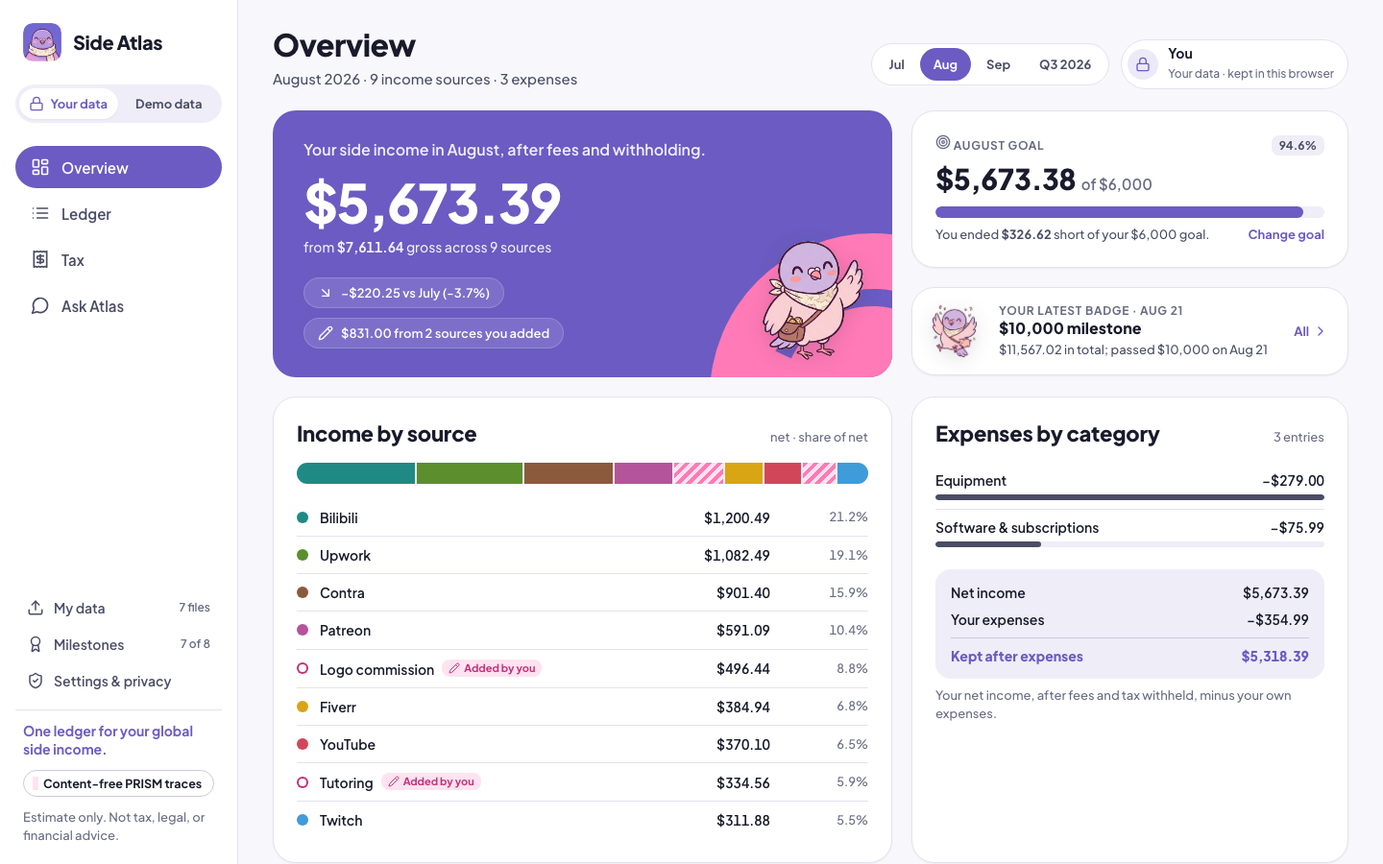
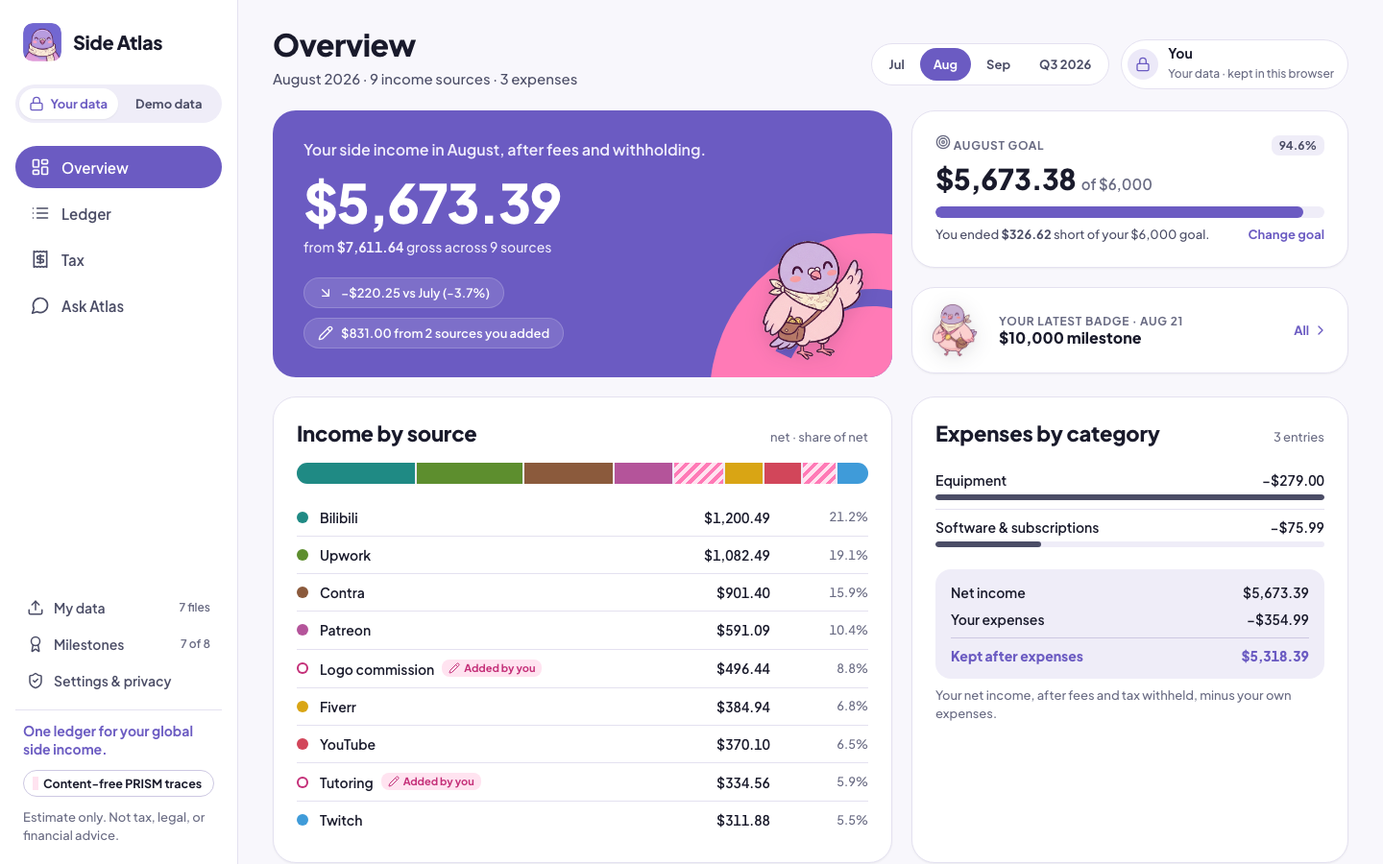
Kit v1.4.1: badge tiles show only the earned date; Atlas v2 art on every badge

Changed region(s): [[0.6562, 0.3422, 0.9062, 0.4356]]

diff --git a/design/Side-Atlas-Design-Kit v1/07-mockups/data-v14.js b/design/Side-Atlas-Design-Kit v1/07-mockups/data-v14.js
@@ -1,3 +1,3 @@
 // Kit v1.4 · generated by gen_data_v14.py from the real endpoints in-process (POST /api/personal/overview and /ledger with
 // the manual entries and the goal from daoshou_testdata/data/manual_entries.json). Fictional data.
-window.SA_V14_RAW = {"art": {"first_1k_month": "../02-logos/mascot/celebrate.png", "best_month": "../02-logos/mascot/celebrate.png", "growth_streak_3": "../02-logos/mascot/think.png", "new_source": "../02-logos/mascot/celebrate.png", "five_sources": "../02-logos/mascot/celebrate.png", "new_currency": "../02-logos/mascot/celebrate.png", "total_10k": "../02-logos/mascot/celebrate.png", "complete_month": "../02-logos/mascot/celebrate.png", "goal": "../02-logos/mascot/celebrate.png"}, "art_v2": 0, "goal_mid": {"month": "2026-09", "income": 2729.8, "progress": 0.455, "remaining": 3270.2, "reached": false, "reached_on": null, "complete": true, "as_of": "2026-09-15"}, "months": {"2026-07": {"month": "2026-07", "prev_month": null, "income": {"net": 5893.64, "gross": 8246.39, "sources": [{"key": "contra", "label": "Contra", "own": false, "net": 1856.31}, {"key": "bilibili", "label": "Bilibili", "own": false, "net": 1500.46}, {"key": "youtube", "label": "YouTube", "own": false, "net": 945.79}, {"key": "patreon", "label": "Patreon", "own": false, "net": 582.89}, {"key": "fiverr", "label": "Fiverr", "own": false, "net": 531.84}, {"key": "twitch", "label": "Twitch", "own": false, "net": 308.69}, {"key": "own:tutoring", "label": "Tutoring", "own": true, "net": 167.66}], "mom": null}, "expenses": {"total": 75.99, "count": 2, "by_category": [{"category": "Software & subscriptions", "amount": 75.99, "count": 2}]}, "kept": 5817.65}, "2026-08": {"month": "2026-08", "prev_month": "2026-07", "income": {"net": 5673.39, "gross": 7611.64, "sources": [{"key": "bilibili", "label": "Bilibili", "own": false, "net": 1200.49}, {"key": "upwork", "label": "Upwork", "own": false, "net": 1082.49}, {"key": "contra", "label": "Contra", "own": false, "net": 901.4}, {"key": "patreon", "label": "Patreon", "own": false, "net": 591.09}, {"key": "own:logo commission", "label": "Logo commission", "own": true, "net": 496.44}, {"key": "fiverr", "label": "Fiverr", "own": false, "net": 384.94}, {"key": "youtube", "label": "YouTube", "own": false, "net": 370.1}, {"key": "own:tutoring", "label": "Tutoring", "own": true, "net": 334.56}, {"key": "twitch", "label": "Twitch", "own": false, "net": 311.88}], "mom": {"change": -220.25, "pct": -0.037371}}, "expenses": {"total": 354.99, "count": 3, "by_category": [{"category": "Equipment", "amount": 279.0, "count": 1}, {"category": "Software & subscriptions", "amount": 75.99, "count": 2}]}, "kept": 5318.39}, "2026-09": {"month": "2026-09", "prev_month": "2026-08", "income": {"net": 6118.33, "gross": 8247.61, "sources": [{"key": "bilibili", "label": "Bilibili", "own": false, "net": 1253.15}, {"key": "contra", "label": "Contra", "own": false, "net": 940.86}, {"key": "upwork", "label": "Upwork", "own": false, "net": 907.91}, {"key": "youtube", "label": "YouTube", "own": false, "net": 614.02}, {"key": "patreon", "label": "Patreon", "own": false, "net": 576.22}, {"key": "twitch", "label": "Twitch", "own": false, "net": 532.95}, {"key": "own:logo commission", "label": "Logo commission", "own": true, "net": 525.6}, {"key": "fiverr", "label": "Fiverr", "own": false, "net": 516.68}, {"key": "own:tutoring", "label": "Tutoring", "own": true, "net": 250.94}], "mom": {"change": 444.94, "pct": 0.078426}}, "expenses": {"total": 204.99, "count": 3, "by_category": [{"category": "Education", "amount": 129.0, "count": 1}, {"category": "Software & subscriptions", "amount": 75.99, "count": 2}]}, "kept": 5913.34}}, "show": "2026-09", "goal": {"amount": 6000.0, "currency": "USD", "basis": "income: platform net plus manual income, before expenses", "months": [{"month": "2026-07", "income": 5893.64, "progress": 0.9823, "remaining": 106.36, "reached": false, "reached_on": null, "complete": true}, {"month": "2026-08", "income": 5673.38, "progress": 0.9456, "remaining": 326.62, "reached": false, "reached_on": null, "complete": true}, {"month": "2026-09", "income": 6118.33, "progress": 1.0197, "remaining": 0.0, "reached": true, "reached_on": "2026-09-28", "complete": true}], "months_reached": 1}, "badges": {"2026-07": [{"id": "first_1k_month", "title_key": "badge.first_1k_month", "earned": true, "earned_on": "2026-07-04", "numbers": {"month": "2026-07", "income_usd": 5893.64, "threshold_usd": 1000.0, "income": 5893.64, "currency": "USD"}, "progress": null}, {"id": "best_month", "title_key": "badge.best_month", "earned": false, "earned_on": null, "numbers": {"best_month": "2026-07", "best": 5893.64, "currency": "USD"}, "progress": null}, {"id": "growth_streak_3", "title_key": "badge.growth_streak_3", "earned": false, "earned_on": null, "numbers": {"currency": "USD"}, "progress": {"current": 0, "target": 3, "unit": "months"}}, {"id": "new_source", "title_key": "badge.new_source", "earned": false, "earned_on": null, "numbers": {"sources": 7}, "progress": null}, {"id": "five_sources", "title_key": "badge.five_sources", "earned": true, "earned_on": "2026-07-04", "numbers": {"fifth": "Contra", "sources": ["B站", "Patreon", "Twitch", "YouTube", "Contra"], "count": 7}, "progress": null}, {"id": "new_currency", "title_key": "badge.new_currency", "earned": false, "earned_on": null, "numbers": {"currencies": ["CNY", "USD"]}, "progress": null}, {"id": "total_10k", "title_key": "badge.total_10k", "earned": false, "earned_on": null, "numbers": {"threshold_usd": 10000.0, "total_usd": 5893.64}, "progress": {"current": 5893.64, "target": 10000.0, "unit": "USD"}}, {"id": "complete_month", "title_key": "badge.complete_month", "earned": true, "earned_on": "2026-07-31", "numbers": {"month": "2026-07", "platforms": 6}, "progress": null}], "2026-08": [{"id": "first_1k_month", "title_key": "badge.first_1k_month", "earned": true, "earned_on": "2026-07-04", "numbers": {"month": "2026-07", "income_usd": 5893.64, "threshold_usd": 1000.0, "income": 5893.64, "currency": "USD"}, "progress": null}, {"id": "best_month", "title_key": "badge.best_month", "earned": false, "earned_on": null, "numbers": {"best_month": "2026-07", "best": 5893.64, "currency": "USD"}, "progress": null}, {"id": "growth_streak_3", "title_key": "badge.growth_streak_3", "earned": false, "earned_on": null, "numbers": {"currency": "USD"}, "progress": {"current": 0, "target": 3, "unit": "months"}}, {"id": "new_source", "title_key": "badge.new_source", "earned": true, "earned_on": "2026-08-12", "numbers": {"source": "Logo commission", "manual": true, "added": [{"source": "Logo commission", "manual": true, "first_date": "2026-08-12"}, {"source": "Upwork", "manual": false, "first_date": "2026-08-21"}]}, "progress": null}, {"id": "five_sources", "title_key": "badge.five_sources", "earned": true, "earned_on": "2026-07-04", "numbers": {"fifth": "Contra", "sources": ["B站", "Patreon", "Twitch", "YouTube", "Contra"], "count": 9}, "progress": null}, {"id": "new_currency", "title_key": "badge.new_currency", "earned": true, "earned_on": "2026-08-12", "numbers": {"currency": "EUR", "first_date": "2026-08-12", "earlier_currencies": ["CNY", "USD"]}, "progress": null}, {"id": "total_10k", "title_key": "badge.total_10k", "earned": true, "earned_on": "2026-08-21", "numbers": {"threshold_usd": 10000.0, "total_usd": 11567.02}, "progress": null}, {"id": "complete_month", "title_key": "badge.complete_month", "earned": true, "earned_on": "2026-07-31", "numbers": {"month": "2026-07", "platforms": 6}, "progress": null}], "2026-09": [{"id": "first_1k_month", "title_key": "badge.first_1k_month", "earned": true, "earned_on": "2026-07-04", "numbers": {"month": "2026-07", "income_usd": 5893.64, "threshold_usd": 1000.0, "income": 5893.64, "currency": "USD"}, "progress": null}, {"id": "best_month", "title_key": "badge.best_month", "earned": true, "earned_on": "2026-09-28", "numbers": {"month": "2026-09", "income": 6118.33, "previous_best_month": "2026-07", "previous_best": 5893.64, "currency": "USD"}, "progress": null}, {"id": "growth_streak_3", "title_key": "badge.growth_streak_3", "earned": false, "earned_on": null, "numbers": {"currency": "USD"}, "progress": {"current": 1, "target": 3, "unit": "months"}}, {"id": "new_source", "title_key": "badge.new_source", "earned": true, "earned_on": "2026-08-12", "numbers": {"source": "Logo commission", "manual": true, "added": [{"source": "Logo commission", "manual": true, "first_date": "2026-08-12"}, {"source": "Upwork", "manual": false, "first_date": "2026-08-21"}]}, "progress": null}, {"id": "five_sources", "title_key": "badge.five_sources", "earned": true, "earned_on": "2026-07-04", "numbers": {"fifth": "Contra", "sources": ["B站", "Patreon", "Twitch", "YouTube", "Contra"], "count": 9}, "progress": null}, {"id": "new_currency", "title_key": "badge.new_currency", "earned": true, "earned_on": "2026-08-12", "numbers": {"currency": "EUR", "first_date": "2026-08-12", "earlier_currencies": ["CNY", "USD"]}, "progress": null}, {"id": "total_10k", "title_key": "badge.total_10k", "earned": true, "earned_on": "2026-08-21", "numbers": {"threshold_usd": 10000.0, "total_usd": 17685.35}, "progress": null}, {"id": "complete_month", "title_key": "badge.complete_month", "earned": true, "earned_on": "2026-07-31", "numbers": {"month": "2026-07", "platforms": 6}, "progress": null}]}, "ledger": {"rows": [{"date": "2026-09-01", "kind": "statement", "key": "fiverr", "label": "Fiverr", "type": "Order", "ref": "FO853419", "original": {"currency": "USD", "amount": 209.8}, "fx_line": "", "gross": 209.8, "fees": 41.96, "withheld": 0.0, "net": 167.84}, {"date": "2026-09-01", "kind": "statement", "key": "fiverr", "label": "Fiverr", "type": "Tip", "ref": "FO853419", "original": {"currency": "USD", "amount": 14.81}, "fx_line": "", "gross": 14.81, "fees": 2.96, "withheld": 0.0, "net": 11.85}, {"date": "2026-09-01", "kind": "statement", "key": "patreon", "label": "Patreon", "type": "Pledges", "ref": null, "original": {"currency": "USD", "amount": 647.43}, "fx_line": "", "gross": 647.43, "fees": 71.21, "withheld": 0.0, "net": 576.22}, {"date": "2026-09-01", "kind": "statement", "key": "twitch", "label": "Twitch", "type": "Bits", "ref": null, "original": {"currency": "USD", "amount": 65.43}, "fx_line": "", "gross": 65.43, "fees": 0.0, "withheld": 0.0, "net": 65.43}, {"date": "2026-09-02", "kind": "expense", "key": "own", "label": "Software & subscriptions", "type": "Expense", "ref": "Adobe Creative Cloud", "original": {"currency": "USD", "amount": 59.99}, "fx_line": "", "amount_usd": 59.99}, {"date": "2026-09-03", "kind": "statement", "key": "bilibili", "label": "Bilibili", "type": "充电", "ref": null, "original": {"currency": "CNY", "amount": 1192.0}, "fx_line": "÷ 7.1800 · 2026-09-03", "gross": 166.02, "fees": 83.01, "withheld": 0.0, "net": 83.01}, {"date": "2026-09-05", "kind": "statement", "key": "twitch", "label": "Twitch", "type": "Ad Revenue", "ref": null, "original": {"currency": "USD", "amount": 56.65}, "fx_line": "", "gross": 56.65, "fees": 25.49, "withheld": 0.0, "net": 31.16}, {"date": "2026-09-05", "kind": "expense", "key": "own", "label": "Software & subscriptions", "type": "Expense", "ref": "Figma Professional", "original": {"currency": "USD", "amount": 16.0}, "fx_line": "", "amount_usd": 16.0}, {"date": "2026-09-08", "kind": "statement", "key": "upwork", "label": "Upwork", "type": "Hourly", "ref": "UW-2102", "original": {"currency": "USD", "amount": 398.9}, "fx_line": "", "gross": 398.9, "fees": 59.84, "withheld": 0.0, "net": 339.06}, {"date": "2026-09-09", "kind": "statement", "key": "bilibili", "label": "Bilibili", "type": "提督", "ref": null, "original": {"currency": "CNY", "amount": 1998.0}, "fx_line": "÷ 7.1713 · 2026-09-09", "gross": 278.61, "fees": 139.31, "withheld": 0.0, "net": 139.31}, {"date": "2026-09-10", "kind": "expense", "key": "own", "label": "Education", "type": "Expense", "ref": "Online course: motion design", "original": {"currency": "USD", "amount": 129.0}, "fx_line": "", "amount_usd": 129.0}, {"date": "2026-09-11", "kind": "statement", "key": "bilibili", "label": "Bilibili", "type": "舰长", "ref": null, "original": {"currency": "CNY", "amount": 198.0}, "fx_line": "÷ 7.1681 · 2026-09-11", "gross": 27.62, "fees": 13.81, "withheld": 0.0, "net": 13.81}, {"date": "2026-09-13", "kind": "statement", "key": "bilibili", "label": "Bilibili", "type": "SC", "ref": null, "original": {"currency": "CNY", "amount": 1284.0}, "fx_line": "÷ 7.1590 · 2026-09-13", "gross": 179.35, "fees": 89.68, "withheld": 0.0, "net": 89.68}, {"date": "2026-09-13", "kind": "statement", "key": "bilibili", "label": "Bilibili", "type": "SC", "ref": null, "original": {"currency": "CNY", "amount": 988.0}, "fx_line": "÷ 7.1590 · 2026-09-13", "gross": 138.01, "fees": 69.0, "withheld": 0.0, "net": 69.0}, {"date": "2026-09-14", "kind": "statement", "key": "upwork", "label": "Upwork", "type": "Fixed Price", "ref": "UW-2101", "original": {"currency": "USD", "amount": 634.28}, "fx_line": "", "gross": 634.28, "fees": 63.43, "withheld": 0.0, "net": 570.85}, {"date": "2026-09-14", "kind": "income", "key": "own", "label": "Tutoring", "type": "Income", "ref": null, "original": {"currency": "CNY", "amount": 900.0}, "fx_line": "÷ 7.1651 · 2026-09-14", "gross": 125.61, "fees": 0, "withheld": 0, "net": 125.61}, {"date": "2026-09-15", "kind": "statement", "key": "bilibili", "label": "Bilibili", "type": "SC", "ref": null, "original": {"currency": "CNY", "amount": 1752.0}, "fx_line": "÷ 7.1740 · 2026-09-15", "gross": 244.22, "fees": 122.11, "withheld": 0.0, "net": 122.11}, {"date": "2026-09-15", "kind": "statement", "key": "bilibili", "label": "Bilibili", "type": "SC", "ref": null, "original": {"currency": "CNY", "amount": 1228.0}, "fx_line": "÷ 7.1740 · 2026-09-15", "gross": 171.17, "fees": 85.59, "withheld": 0.0, "net": 85.59}, {"date": "2026-09-15", "kind": "statement", "key": "twitch", "label": "Twitch", "type": "Subscriptions", "ref": null, "original": {"currency": "USD", "amount": 478.55}, "fx_line": "", "gross": 478.55, "fees": 239.28, "withheld": 0.0, "net": 239.27}, {"date": "2026-09-16", "kind": "statement", "key": "bilibili", "label": "Bilibili", "type": "礼物", "ref": null, "original": {"currency": "CNY", "amount": 2496.0}, "fx_line": "÷ 7.1691 · 2026-09-16", "gross": 348.16, "fees": 174.08, "withheld": 0.0, "net": 174.08}, {"date": "2026-09-16", "kind": "statement", "key": "upwork", "label": "Upwork", "type": "Withdrawal Fee", "ref": null, "original": {"currency": "USD", "amount": 0.0}, "fx_line": "", "gross": 0.0, "fees": 2.0, "withheld": 0.0, "net": -2.0}, {"date": "2026-09-17", "kind": "statement", "key": "bilibili", "label": "Bilibili", "type": "礼物", "ref": null, "original": {"currency": "CNY", "amount": 1292.0}, "fx_line": "÷ 7.1691 · 2026-09-17", "gross": 180.22, "fees": 90.11, "withheld": 0.0, "net": 90.11}, {"date": "2026-09-18", "kind": "statement", "key": "fiverr", "label": "Fiverr", "type": "Order", "ref": "FO326993", "original": {"currency": "USD", "amount": 217.68}, "fx_line": "", "gross": 217.68, "fees": 43.54, "withheld": 0.0, "net": 174.14}, {"date": "2026-09-19", "kind": "statement", "key": "bilibili", "label": "Bilibili", "type": "提督", "ref": null, "original": {"currency": "CNY", "amount": 1998.0}, "fx_line": "÷ 7.1877 · 2026-09-19", "gross": 277.97, "fees": 138.99, "withheld": 0.0, "net": 138.99}, {"date": "2026-09-19", "kind": "statement", "key": "youtube", "label": "YouTube", "type": "Super Chat", "ref": null, "original": {"currency": "USD", "amount": 234.78}, "fx_line": "", "gross": 234.78, "fees": 70.43, "withheld": 0.0, "net": 164.35}, {"date": "2026-09-21", "kind": "statement", "key": "fiverr", "label": "Fiverr", "type": "Order", "ref": "FO312690", "original": {"currency": "USD", "amount": 85.68}, "fx_line": "", "gross": 85.68, "fees": 17.14, "withheld": 0.0, "net": 68.54}, {"date": "2026-09-21", "kind": "statement", "key": "fiverr", "label": "Fiverr", "type": "Tip", "ref": "FO312690", "original": {"currency": "USD", "amount": 39.61}, "fx_line": "", "gross": 39.61, "fees": 7.92, "withheld": 0.0, "net": 31.69}, {"date": "2026-09-21", "kind": "income", "key": "own", "label": "Logo commission", "type": "Income", "ref": null, "original": {"currency": "EUR", "amount": 480.0}, "fx_line": "× 1.0950 · 2026-09-21", "gross": 525.6, "fees": 0, "withheld": 0, "net": 525.6}, {"date": "2026-09-22", "kind": "statement", "key": "twitch", "label": "Twitch", "type": "Bits", "ref": null, "original": {"currency": "USD", "amount": 102.36}, "fx_line": "", "gross": 102.36, "fees": 0.0, "withheld": 0.0, "net": 102.36}, {"date": "2026-09-24", "kind": "statement", "key": "fiverr", "label": "Fiverr", "type": "Order", "ref": "FO778597", "original": {"currency": "USD", "amount": 82.03}, "fx_line": "", "gross": 82.03, "fees": 16.41, "withheld": 0.0, "net": 65.62}, {"date": "2026-09-24", "kind": "statement", "key": "twitch", "label": "Twitch", "type": "Bits", "ref": null, "original": {"currency": "USD", "amount": 94.73}, "fx_line": "", "gross": 94.73, "fees": 0.0, "withheld": 0.0, "net": 94.73}, {"date": "2026-09-26", "kind": "statement", "key": "bilibili", "label": "Bilibili", "type": "充电", "ref": null, "original": {"currency": "CNY", "amount": 2220.0}, "fx_line": "÷ 7.1910 · 2026-09-26", "gross": 308.72, "fees": 154.36, "withheld": 0.0, "net": 154.36}, {"date": "2026-09-26", "kind": "statement", "key": "youtube", "label": "YouTube", "type": "Super Chat", "ref": null, "original": {"currency": "USD", "amount": 76.57}, "fx_line": "", "gross": 76.57, "fees": 22.97, "withheld": 0.0, "net": 53.6}, {"date": "2026-09-27", "kind": "statement", "key": "fiverr", "label": "Fiverr", "type": "Withdrawal Fee", "ref": null, "original": {"currency": "USD", "amount": 0.0}, "fx_line": "", "gross": 0.0, "fees": 3.0, "withheld": 0.0, "net": -3.0}, {"date": "2026-09-28", "kind": "statement", "key": "bilibili", "label": "Bilibili", "type": "SC", "ref": null, "original": {"currency": "CNY", "amount": 876.0}, "fx_line": "÷ 7.1810 · 2026-09-28", "gross": 121.99, "fees": 60.99, "withheld": 0.0, "net": 60.99}, {"date": "2026-09-28", "kind": "statement", "key": "contra", "label": "Contra", "type": "Payment", "ref": "App onboarding screens", "original": {"currency": "USD", "amount": 940.86}, "fx_line": "", "gross": 940.86, "fees": 0.0, "withheld": 0.0, "net": 940.86}, {"date": "2026-09-28", "kind": "statement", "key": "youtube", "label": "YouTube", "type": "Super Sticker", "ref": null, "original": {"currency": "USD", "amount": 43.35}, "fx_line": "", "gross": 43.35, "fees": 13.01, "withheld": 0.0, "net": 30.34}, {"date": "2026-09-28", "kind": "statement", "key": "youtube", "label": "YouTube", "type": "Channel Memberships", "ref": null, "original": {"currency": "USD", "amount": 522.47}, "fx_line": "", "gross": 522.47, "fees": 156.74, "withheld": 0.0, "net": 365.73}, {"date": "2026-09-28", "kind": "income", "key": "own", "label": "Tutoring", "type": "Income", "ref": null, "original": {"currency": "CNY", "amount": 900.0}, "fx_line": "÷ 7.1810 · 2026-09-28", "gross": 125.33, "fees": 0, "withheld": 0, "net": 125.33}, {"date": "2026-09-29", "kind": "statement", "key": "bilibili", "label": "Bilibili", "type": "礼物", "ref": null, "original": {"currency": "CNY", "amount": 596.0}, "fx_line": "÷ 7.1778 · 2026-09-29", "gross": 83.03, "fees": 41.52, "withheld": 0.0, "net": 41.52}, {"date": "2026-09-30", "kind": "statement", "key": "bilibili", "label": "Bilibili", "type": "提现代扣个税", "ref": null, "original": {"currency": "CNY", "amount": 0.0}, "fx_line": "÷ 7.1753 · 2026-09-30", "gross": 0.0, "fees": 0.0, "withheld": 9.4, "net": -9.4}], "counts": {"all": 41, "income": 38, "expenses": 3, "own": 6}, "totals": {"gross": 8247.61, "fees": 2119.88, "withheld": 9.4, "expenses": 204.99, "net": 6118.33, "kept": 5913.34, "net_after_expenses": 5913.34}}, "own_sources": ["Logo commission", "Tutoring"], "entry_examples": {"expense": {"date": "2026-09-10", "amount": 129.0, "currency": "USD", "category": "Education", "source": "Online course: motion design"}, "income": {"date": "2026-09-28", "amount": 900, "currency": "CNY", "source": "Tutoring"}}, "goal_presets": [4000, 5000, 6000, 7000]};
+window.SA_V14_RAW = {"art": {"first_1k_month": "../02-logos/mascot/v2/coin.png", "best_month": "../02-logos/mascot/v2/trophy.png", "growth_streak_3": "../02-logos/mascot/v2/coin-stack.png", "new_source": "../02-logos/mascot/v2/envelope.png", "five_sources": "../02-logos/mascot/v2/star-badge.png", "new_currency": "../02-logos/mascot/v2/globe.png", "total_10k": "../02-logos/mascot/v2/medal.png", "complete_month": "../02-logos/mascot/v2/ledger.png", "goal": "../02-logos/mascot/v2/flag.png"}, "art_v2": 9, "goal_mid": {"month": "2026-09", "income": 2729.8, "progress": 0.455, "remaining": 3270.2, "reached": false, "reached_on": null, "complete": true, "as_of": "2026-09-15"}, "months": {"2026-07": {"month": "2026-07", "prev_month": null, "income": {"net": 5893.64, "gross": 8246.39, "sources": [{"key": "contra", "label": "Contra", "own": false, "net": 1856.31}, {"key": "bilibili", "label": "Bilibili", "own": false, "net": 1500.46}, {"key": "youtube", "label": "YouTube", "own": false, "net": 945.79}, {"key": "patreon", "label": "Patreon", "own": false, "net": 582.89}, {"key": "fiverr", "label": "Fiverr", "own": false, "net": 531.84}, {"key": "twitch", "label": "Twitch", "own": false, "net": 308.69}, {"key": "own:tutoring", "label": "Tutoring", "own": true, "net": 167.66}], "mom": null}, "expenses": {"total": 75.99, "count": 2, "by_category": [{"category": "Software & subscriptions", "amount": 75.99, "count": 2}]}, "kept": 5817.65}, "2026-08": {"month": "2026-08", "prev_month": "2026-07", "income": {"net": 5673.39, "gross": 7611.64, "sources": [{"key": "bilibili", "label": "Bilibili", "own": false, "net": 1200.49}, {"key": "upwork", "label": "Upwork", "own": false, "net": 1082.49}, {"key": "contra", "label": "Contra", "own": false, "net": 901.4}, {"key": "patreon", "label": "Patreon", "own": false, "net": 591.09}, {"key": "own:logo commission", "label": "Logo commission", "own": true, "net": 496.44}, {"key": "fiverr", "label": "Fiverr", "own": false, "net": 384.94}, {"key": "youtube", "label": "YouTube", "own": false, "net": 370.1}, {"key": "own:tutoring", "label": "Tutoring", "own": true, "net": 334.56}, {"key": "twitch", "label": "Twitch", "own": false, "net": 311.88}], "mom": {"change": -220.25, "pct": -0.037371}}, "expenses": {"total": 354.99, "count": 3, "by_category": [{"category": "Equipment", "amount": 279.0, "count": 1}, {"category": "Software & subscriptions", "amount": 75.99, "count": 2}]}, "kept": 5318.39}, "2026-09": {"month": "2026-09", "prev_month": "2026-08", "income": {"net": 6118.33, "gross": 8247.61, "sources": [{"key": "bilibili", "label": "Bilibili", "own": false, "net": 1253.15}, {"key": "contra", "label": "Contra", "own": false, "net": 940.86}, {"key": "upwork", "label": "Upwork", "own": false, "net": 907.91}, {"key": "youtube", "label": "YouTube", "own": false, "net": 614.02}, {"key": "patreon", "label": "Patreon", "own": false, "net": 576.22}, {"key": "twitch", "label": "Twitch", "own": false, "net": 532.95}, {"key": "own:logo commission", "label": "Logo commission", "own": true, "net": 525.6}, {"key": "fiverr", "label": "Fiverr", "own": false, "net": 516.68}, {"key": "own:tutoring", "label": "Tutoring", "own": true, "net": 250.94}], "mom": {"change": 444.94, "pct": 0.078426}}, "expenses": {"total": 204.99, "count": 3, "by_category": [{"category": "Education", "amount": 129.0, "count": 1}, {"category": "Software & subscriptions", "amount": 75.99, "count": 2}]}, "kept": 5913.34}}, "show": "2026-09", "goal": {"amount": 6000.0, "currency": "USD", "basis": "income: platform net plus manual income, before expenses", "months": [{"month": "2026-07", "income": 5893.64, "progress": 0.9823, "remaining": 106.36, "reached": false, "reached_on": null, "complete": true}, {"month": "2026-08", "income": 5673.38, "progress": 0.9456, "remaining": 326.62, "reached": false, "reached_on": null, "complete": true}, {"month": "2026-09", "income": 6118.33, "progress": 1.0197, "remaining": 0.0, "reached": true, "reached_on": "2026-09-28", "complete": true}], "months_reached": 1}, "badges": {"2026-07": [{"id": "first_1k_month", "title_key": "badge.first_1k_month", "earned": true, "earned_on": "2026-07-04", "numbers": {"month": "2026-07", "income_usd": 5893.64, "threshold_usd": 1000.0, "income": 5893.64, "currency": "USD"}, "progress": null}, {"id": "best_month", "title_key": "badge.best_month", "earned": false, "earned_on": null, "numbers": {"best_month": "2026-07", "best": 5893.64, "currency": "USD"}, "progress": null}, {"id": "growth_streak_3", "title_key": "badge.growth_streak_3", "earned": false, "earned_on": null, "numbers": {"currency": "USD"}, "progress": {"current": 0, "target": 3, "unit": "months"}}, {"id": "new_source", "title_key": "badge.new_source", "earned": false, "earned_on": null, "numbers": {"sources": 7}, "progress": null}, {"id": "five_sources", "title_key": "badge.five_sources", "earned": true, "earned_on": "2026-07-04", "numbers": {"fifth": "Contra", "sources": ["B站", "Patreon", "Twitch", "YouTube", "Contra"], "count": 7}, "progress": null}, {"id": "new_currency", "title_key": "badge.new_currency", "earned": false, "earned_on": null, "numbers": {"currencies": ["CNY", "USD"]}, "progress": null}, {"id": "total_10k", "title_key": "badge.total_10k", "earned": false, "earned_on": null, "numbers": {"threshold_usd": 10000.0, "total_usd": 5893.64}, "progress": {"current": 5893.64, "target": 10000.0, "unit": "USD"}}, {"id": "complete_month", "title_key": "badge.complete_month", "earned": true, "earned_on": "2026-07-31", "numbers": {"month": "2026-07", "platforms": 6}, "progress": null}], "2026-08": [{"id": "first_1k_month", "title_key": "badge.first_1k_month", "earned": true, "earned_on": "2026-07-04", "numbers": {"month": "2026-07", "income_usd": 5893.64, "threshold_usd": 1000.0, "income": 5893.64, "currency": "USD"}, "progress": null}, {"id": "best_month", "title_key": "badge.best_month", "earned": false, "earned_on": null, "numbers": {"best_month": "2026-07", "best": 5893.64, "currency": "USD"}, "progress": null}, {"id": "growth_streak_3", "title_key": "badge.growth_streak_3", "earned": false, "earned_on": null, "numbers": {"currency": "USD"}, "progress": {"current": 0, "target": 3, "unit": "months"}}, {"id": "new_source", "title_key": "badge.new_source", "earned": true, "earned_on": "2026-08-12", "numbers": {"source": "Logo commission", "manual": true, "added": [{"source": "Logo commission", "manual": true, "first_date": "2026-08-12"}, {"source": "Upwork", "manual": false, "first_date": "2026-08-21"}]}, "progress": null}, {"id": "five_sources", "title_key": "badge.five_sources", "earned": true, "earned_on": "2026-07-04", "numbers": {"fifth": "Contra", "sources": ["B站", "Patreon", "Twitch", "YouTube", "Contra"], "count": 9}, "progress": null}, {"id": "new_currency", "title_key": "badge.new_currency", "earned": true, "earned_on": "2026-08-12", "numbers": {"currency": "EUR", "first_date": "2026-08-12", "earlier_currencies": ["CNY", "USD"]}, "progress": null}, {"id": "total_10k", "title_key": "badge.total_10k", "earned": true, "earned_on": "2026-08-21", "numbers": {"threshold_usd": 10000.0, "total_usd": 11567.02}, "progress": null}, {"id": "complete_month", "title_key": "badge.complete_month", "earned": true, "earned_on": "2026-07-31", "numbers": {"month": "2026-07", "platforms": 6}, "progress": null}], "2026-09": [{"id": "first_1k_month", "title_key": "badge.first_1k_month", "earned": true, "earned_on": "2026-07-04", "numbers": {"month": "2026-07", "income_usd": 5893.64, "threshold_usd": 1000.0, "income": 5893.64, "currency": "USD"}, "progress": null}, {"id": "best_month", "title_key": "badge.best_month", "earned": true, "earned_on": "2026-09-28", "numbers": {"month": "2026-09", "income": 6118.33, "previous_best_month": "2026-07", "previous_best": 5893.64, "currency": "USD"}, "progress": null}, {"id": "growth_streak_3", "title_key": "badge.growth_streak_3", "earned": false, "earned_on": null, "numbers": {"currency": "USD"}, "progress": {"current": 1, "target": 3, "unit": "months"}}, {"id": "new_source", "title_key": "badge.new_source", "earned": true, "earned_on": "2026-08-12", "numbers": {"source": "Logo commission", "manual": true, "added": [{"source": "Logo commission", "manual": true, "first_date": "2026-08-12"}, {"source": "Upwork", "manual": false, "first_date": "2026-08-21"}]}, "progress": null}, {"id": "five_sources", "title_key": "badge.five_sources", "earned": true, "earned_on": "2026-07-04", "numbers": {"fifth": "Contra", "sources": ["B站", "Patreon", "Twitch", "YouTube", "Contra"], "count": 9}, "progress": null}, {"id": "new_currency", "title_key": "badge.new_currency", "earned": true, "earned_on": "2026-08-12", "numbers": {"currency": "EUR", "first_date": "2026-08-12", "earlier_currencies": ["CNY", "USD"]}, "progress": null}, {"id": "total_10k", "title_key": "badge.total_10k", "earned": true, "earned_on": "2026-08-21", "numbers": {"threshold_usd": 10000.0, "total_usd": 17685.35}, "progress": null}, {"id": "complete_month", "title_key": "badge.complete_month", "earned": true, "earned_on": "2026-07-31", "numbers": {"month": "2026-07", "platforms": 6}, "progress": null}]}, "ledger": {"rows": [{"date": "2026-09-01", "kind": "statement", "key": "fiverr", "label": "Fiverr", "type": "Order", "ref": "FO853419", "original": {"currency": "USD", "amount": 209.8}, "fx_line": "", "gross": 209.8, "fees": 41.96, "withheld": 0.0, "net": 167.84}, {"date": "2026-09-01", "kind": "statement", "key": "fiverr", "label": "Fiverr", "type": "Tip", "ref": "FO853419", "original": {"currency": "USD", "amount": 14.81}, "fx_line": "", "gross": 14.81, "fees": 2.96, "withheld": 0.0, "net": 11.85}, {"date": "2026-09-01", "kind": "statement", "key": "patreon", "label": "Patreon", "type": "Pledges", "ref": null, "original": {"currency": "USD", "amount": 647.43}, "fx_line": "", "gross": 647.43, "fees": 71.21, "withheld": 0.0, "net": 576.22}, {"date": "2026-09-01", "kind": "statement", "key": "twitch", "label": "Twitch", "type": "Bits", "ref": null, "original": {"currency": "USD", "amount": 65.43}, "fx_line": "", "gross": 65.43, "fees": 0.0, "withheld": 0.0, "net": 65.43}, {"date": "2026-09-02", "kind": "expense", "key": "own", "label": "Software & subscriptions", "type": "Expense", "ref": "Adobe Creative Cloud", "original": {"currency": "USD", "amount": 59.99}, "fx_line": "", "amount_usd": 59.99}, {"date": "2026-09-03", "kind": "statement", "key": "bilibili", "label": "Bilibili", "type": "充电", "ref": null, "original": {"currency": "CNY", "amount": 1192.0}, "fx_line": "÷ 7.1800 · 2026-09-03", "gross": 166.02, "fees": 83.01, "withheld": 0.0, "net": 83.01}, {"date": "2026-09-05", "kind": "statement", "key": "twitch", "label": "Twitch", "type": "Ad Revenue", "ref": null, "original": {"currency": "USD", "amount": 56.65}, "fx_line": "", "gross": 56.65, "fees": 25.49, "withheld": 0.0, "net": 31.16}, {"date": "2026-09-05", "kind": "expense", "key": "own", "label": "Software & subscriptions", "type": "Expense", "ref": "Figma Professional", "original": {"currency": "USD", "amount": 16.0}, "fx_line": "", "amount_usd": 16.0}, {"date": "2026-09-08", "kind": "statement", "key": "upwork", "label": "Upwork", "type": "Hourly", "ref": "UW-2102", "original": {"currency": "USD", "amount": 398.9}, "fx_line": "", "gross": 398.9, "fees": 59.84, "withheld": 0.0, "net": 339.06}, {"date": "2026-09-09", "kind": "statement", "key": "bilibili", "label": "Bilibili", "type": "提督", "ref": null, "original": {"currency": "CNY", "amount": 1998.0}, "fx_line": "÷ 7.1713 · 2026-09-09", "gross": 278.61, "fees": 139.31, "withheld": 0.0, "net": 139.31}, {"date": "2026-09-10", "kind": "expense", "key": "own", "label": "Education", "type": "Expense", "ref": "Online course: motion design", "original": {"currency": "USD", "amount": 129.0}, "fx_line": "", "amount_usd": 129.0}, {"date": "2026-09-11", "kind": "statement", "key": "bilibili", "label": "Bilibili", "type": "舰长", "ref": null, "original": {"currency": "CNY", "amount": 198.0}, "fx_line": "÷ 7.1681 · 2026-09-11", "gross": 27.62, "fees": 13.81, "withheld": 0.0, "net": 13.81}, {"date": "2026-09-13", "kind": "statement", "key": "bilibili", "label": "Bilibili", "type": "SC", "ref": null, "original": {"currency": "CNY", "amount": 1284.0}, "fx_line": "÷ 7.1590 · 2026-09-13", "gross": 179.35, "fees": 89.68, "withheld": 0.0, "net": 89.68}, {"date": "2026-09-13", "kind": "statement", "key": "bilibili", "label": "Bilibili", "type": "SC", "ref": null, "original": {"currency": "CNY", "amount": 988.0}, "fx_line": "÷ 7.1590 · 2026-09-13", "gross": 138.01, "fees": 69.0, "withheld": 0.0, "net": 69.0}, {"date": "2026-09-14", "kind": "statement", "key": "upwork", "label": "Upwork", "type": "Fixed Price", "ref": "UW-2101", "original": {"currency": "USD", "amount": 634.28}, "fx_line": "", "gross": 634.28, "fees": 63.43, "withheld": 0.0, "net": 570.85}, {"date": "2026-09-14", "kind": "income", "key": "own", "label": "Tutoring", "type": "Income", "ref": null, "original": {"currency": "CNY", "amount": 900.0}, "fx_line": "÷ 7.1651 · 2026-09-14", "gross": 125.61, "fees": 0, "withheld": 0, "net": 125.61}, {"date": "2026-09-15", "kind": "statement", "key": "bilibili", "label": "Bilibili", "type": "SC", "ref": null, "original": {"currency": "CNY", "amount": 1752.0}, "fx_line": "÷ 7.1740 · 2026-09-15", "gross": 244.22, "fees": 122.11, "withheld": 0.0, "net": 122.11}, {"date": "2026-09-15", "kind": "statement", "key": "bilibili", "label": "Bilibili", "type": "SC", "ref": null, "original": {"currency": "CNY", "amount": 1228.0}, "fx_line": "÷ 7.1740 · 2026-09-15", "gross": 171.17, "fees": 85.59, "withheld": 0.0, "net": 85.59}, {"date": "2026-09-15", "kind": "statement", "key": "twitch", "label": "Twitch", "type": "Subscriptions", "ref": null, "original": {"currency": "USD", "amount": 478.55}, "fx_line": "", "gross": 478.55, "fees": 239.28, "withheld": 0.0, "net": 239.27}, {"date": "2026-09-16", "kind": "statement", "key": "bilibili", "label": "Bilibili", "type": "礼物", "ref": null, "original": {"currency": "CNY", "amount": 2496.0}, "fx_line": "÷ 7.1691 · 2026-09-16", "gross": 348.16, "fees": 174.08, "withheld": 0.0, "net": 174.08}, {"date": "2026-09-16", "kind": "statement", "key": "upwork", "label": "Upwork", "type": "Withdrawal Fee", "ref": null, "original": {"currency": "USD", "amount": 0.0}, "fx_line": "", "gross": 0.0, "fees": 2.0, "withheld": 0.0, "net": -2.0}, {"date": "2026-09-17", "kind": "statement", "key": "bilibili", "label": "Bilibili", "type": "礼物", "ref": null, "original": {"currency": "CNY", "amount": 1292.0}, "fx_line": "÷ 7.1691 · 2026-09-17", "gross": 180.22, "fees": 90.11, "withheld": 0.0, "net": 90.11}, {"date": "2026-09-18", "kind": "statement", "key": "fiverr", "label": "Fiverr", "type": "Order", "ref": "FO326993", "original": {"currency": "USD", "amount": 217.68}, "fx_line": "", "gross": 217.68, "fees": 43.54, "withheld": 0.0, "net": 174.14}, {"date": "2026-09-19", "kind": "statement", "key": "bilibili", "label": "Bilibili", "type": "提督", "ref": null, "original": {"currency": "CNY", "amount": 1998.0}, "fx_line": "÷ 7.1877 · 2026-09-19", "gross": 277.97, "fees": 138.99, "withheld": 0.0, "net": 138.99}, {"date": "2026-09-19", "kind": "statement", "key": "youtube", "label": "YouTube", "type": "Super Chat", "ref": null, "original": {"currency": "USD", "amount": 234.78}, "fx_line": "", "gross": 234.78, "fees": 70.43, "withheld": 0.0, "net": 164.35}, {"date": "2026-09-21", "kind": "statement", "key": "fiverr", "label": "Fiverr", "type": "Order", "ref": "FO312690", "original": {"currency": "USD", "amount": 85.68}, "fx_line": "", "gross": 85.68, "fees": 17.14, "withheld": 0.0, "net": 68.54}, {"date": "2026-09-21", "kind": "statement", "key": "fiverr", "label": "Fiverr", "type": "Tip", "ref": "FO312690", "original": {"currency": "USD", "amount": 39.61}, "fx_line": "", "gross": 39.61, "fees": 7.92, "withheld": 0.0, "net": 31.69}, {"date": "2026-09-21", "kind": "income", "key": "own", "label": "Logo commission", "type": "Income", "ref": null, "original": {"currency": "EUR", "amount": 480.0}, "fx_line": "× 1.0950 · 2026-09-21", "gross": 525.6, "fees": 0, "withheld": 0, "net": 525.6}, {"date": "2026-09-22", "kind": "statement", "key": "twitch", "label": "Twitch", "type": "Bits", "ref": null, "original": {"currency": "USD", "amount": 102.36}, "fx_line": "", "gross": 102.36, "fees": 0.0, "withheld": 0.0, "net": 102.36}, {"date": "2026-09-24", "kind": "statement", "key": "fiverr", "label": "Fiverr", "type": "Order", "ref": "FO778597", "original": {"currency": "USD", "amount": 82.03}, "fx_line": "", "gross": 82.03, "fees": 16.41, "withheld": 0.0, "net": 65.62}, {"date": "2026-09-24", "kind": "statement", "key": "twitch", "label": "Twitch", "type": "Bits", "ref": null, "original": {"currency": "USD", "amount": 94.73}, "fx_line": "", "gross": 94.73, "fees": 0.0, "withheld": 0.0, "net": 94.73}, {"date": "2026-09-26", "kind": "statement", "key": "bilibili", "label": "Bilibili", "type": "充电", "ref": null, "original": {"currency": "CNY", "amount": 2220.0}, "fx_line": "÷ 7.1910 · 2026-09-26", "gross": 308.72, "fees": 154.36, "withheld": 0.0, "net": 154.36}, {"date": "2026-09-26", "kind": "statement", "key": "youtube", "label": "YouTube", "type": "Super Chat", "ref": null, "original": {"currency": "USD", "amount": 76.57}, "fx_line": "", "gross": 76.57, "fees": 22.97, "withheld": 0.0, "net": 53.6}, {"date": "2026-09-27", "kind": "statement", "key": "fiverr", "label": "Fiverr", "type": "Withdrawal Fee", "ref": null, "original": {"currency": "USD", "amount": 0.0}, "fx_line": "", "gross": 0.0, "fees": 3.0, "withheld": 0.0, "net": -3.0}, {"date": "2026-09-28", "kind": "statement", "key": "bilibili", "label": "Bilibili", "type": "SC", "ref": null, "original": {"currency": "CNY", "amount": 876.0}, "fx_line": "÷ 7.1810 · 2026-09-28", "gross": 121.99, "fees": 60.99, "withheld": 0.0, "net": 60.99}, {"date": "2026-09-28", "kind": "statement", "key": "contra", "label": "Contra", "type": "Payment", "ref": "App onboarding screens", "original": {"currency": "USD", "amount": 940.86}, "fx_line": "", "gross": 940.86, "fees": 0.0, "withheld": 0.0, "net": 940.86}, {"date": "2026-09-28", "kind": "statement", "key": "youtube", "label": "YouTube", "type": "Super Sticker", "ref": null, "original": {"currency": "USD", "amount": 43.35}, "fx_line": "", "gross": 43.35, "fees": 13.01, "withheld": 0.0, "net": 30.34}, {"date": "2026-09-28", "kind": "statement", "key": "youtube", "label": "YouTube", "type": "Channel Memberships", "ref": null, "original": {"currency": "USD", "amount": 522.47}, "fx_line": "", "gross": 522.47, "fees": 156.74, "withheld": 0.0, "net": 365.73}, {"date": "2026-09-28", "kind": "income", "key": "own", "label": "Tutoring", "type": "Income", "ref": null, "original": {"currency": "CNY", "amount": 900.0}, "fx_line": "÷ 7.1810 · 2026-09-28", "gross": 125.33, "fees": 0, "withheld": 0, "net": 125.33}, {"date": "2026-09-29", "kind": "statement", "key": "bilibili", "label": "Bilibili", "type": "礼物", "ref": null, "original": {"currency": "CNY", "amount": 596.0}, "fx_line": "÷ 7.1778 · 2026-09-29", "gross": 83.03, "fees": 41.52, "withheld": 0.0, "net": 41.52}, {"date": "2026-09-30", "kind": "statement", "key": "bilibili", "label": "Bilibili", "type": "提现代扣个税", "ref": null, "original": {"currency": "CNY", "amount": 0.0}, "fx_line": "÷ 7.1753 · 2026-09-30", "gross": 0.0, "fees": 0.0, "withheld": 9.4, "net": -9.4}], "counts": {"all": 41, "income": 38, "expenses": 3, "own": 6}, "totals": {"gross": 8247.61, "fees": 2119.88, "withheld": 9.4, "expenses": 204.99, "net": 6118.33, "kept": 5913.34, "net_after_expenses": 5913.34}}, "own_sources": ["Logo commission", "Tutoring"], "entry_examples": {"expense": {"date": "2026-09-10", "amount": 129.0, "currency": "USD", "category": "Education", "source": "Online course: motion design"}, "income": {"date": "2026-09-28", "amount": 900, "currency": "CNY", "source": "Tutoring"}}, "goal_presets": [4000, 5000, 6000, 7000]};

diff --git a/design/Side-Atlas-Design-Kit v1/07-mockups/app.html b/design/Side-Atlas-Design-Kit v1/07-mockups/app.html
@@ -794,7 +794,7 @@ const goalCard = g => g.reached
       <div class="sa-progress"><i style="width:${Math.min(100, g.net / g.amount * 100).toFixed(1)}%"></i></div>
       <div class="note"><span>${Y.GOAL_SHORT.replace("{left}", `<b class="num">${money(g.remaining)}</b>`).replace("{goal}", money0(g.amount))}</span><a href="#goal-sheet">Change goal</a></div></section>`;
 const latestCard = b => `<section class="sa-card sa-latest"><img class="sa-mascot" src="${b.art}" alt="">
-  <div><div class="label">${Y.LATEST_BADGE} · ${dateShort(b.earned_on)}</div><b>${Y[b.key + "_NAME"]}</b><span class="s">${b.reason}</span></div><a href="#milestones">All ${icon("chevron", "sm rot")}</a></section>`;
+  <div><div class="label">${Y.LATEST_BADGE} · ${dateShort(b.earned_on)}</div><b>${Y[b.key + "_NAME"]}</b></div><a href="#milestones">All ${icon("chevron", "sm rot")}</a></section>`;
 
 /* ---------------- 20 · Overview v1.4 (income first, then expenses, goal and latest badge); 22b reached ---------------- */
 function overviewV14(m) {
@@ -891,14 +891,14 @@ function milestones() {
     <section class="sa-hero c12" style="min-height:0;display:grid;grid-template-columns:1fr auto;gap:24px;align-items:center;padding-top:24px;padding-bottom:24px">
       <div><div class="lead">${Y.LATEST_BADGE} · ${b0.date_label}</div>
         <div class="sa-fig num" style="font-size:44px;margin:10px 0 8px">${earned.length} of ${W.badges.length} earned</div>
-        <div class="sub">${Y[b0.key + "_NAME"]}: ${b0.reason}</div></div>
+        <div class="sub">${Y[b0.key + "_NAME"]}</div></div>
       <img class="sa-mascot" src="${b0.art}" alt="" style="height:var(--sa-mascot-hero);position:relative">
     </section>
     <div class="c12 sa-badgegrid">${W.badges.map(b => `<div class="sa-badgetile ${b.earned ? "" : "locked"} ${b === b0 ? "latest" : ""}">
       ${b.earned ? "" : `<span class="lock">${icon("lock", "sm")}</span>`}
       <div class="art"><img src="${b.art}" alt=""></div>
       <b>${Y[b.key + "_NAME"]}</b><span class="d">${Y[b.key + "_DESC"]}</span>
-      ${b.earned ? `<div class="why">${b.reason}<span>Earned ${b.date_label}</span></div>`
+      ${b.earned ? `<div class="why">Earned ${b.date_label}</div>`
         : `<div class="why">${b.left}<div class="sa-progress"><i style="width:${(b.progress.current / b.progress.target * 100).toFixed(1)}%"></i></div></div>`}
     </div>`).join("")}</div>
   </div>`;

diff --git a/design/Side-Atlas-Design-Kit v1/Side-Atlas-Design-Decisions.md b/design/Side-Atlas-Design-Kit v1/Side-Atlas-Design-Decisions.md
@@ -8,6 +8,8 @@ The single place where visual rulings live. Changing a ruling means a new kit ve
 |---|---|---|
 | 56 | **My data, nothing imported:** title with "Nothing imported yet", one hero headline, the mascot speech bubble and one button (Choose CSV files). Removed: the hero eyebrow, the 8-platform sentence, the drop hint, "Explore demo data" (the sidebar switch does this) and "Try sample statements". | User: the page had too much text; asked to keep the subtitle and the speech bubble and to drop the hint and the sample button. |
 | 57 | **Privacy strip, short form:** three short promises (Saved only in this browser · Server keeps no copy · AI sees totals, not rows) plus a "How your data is handled" link to Settings & privacy, where the full privacy map lives. | Details moved one click away instead of under every promise. |
+| 60 | **Badge art is live:** `gen_data_v14.py --js` now finds the Atlas v2 picks, so every badge has its own pose (coin, trophy, coin-stack, envelope, star-badge, globe, medal, ledger; flag for a reached goal). Closes the note in #55. | The v2 poses landed. |
+| 59 | **Badge tiles show the earned date only** ("Earned Jul 4, 2026", in the accent colour); the reason in numbers is gone from the tiles, the Milestones hero and the Overview latest-badge card. Locked tiles keep their progress line. Supersedes the "reason in numbers" part of #51. | User: the reason line repeated what the badge name says. |
 | 58 | **Where to download** is a collapsed `details` card ("Where do I find my CSV files?"); file names are dropped, the menu paths stay. | Most visits don't need it. |
 
 ## v1.4 · 17 October 2026 · current standard (drawn; waiting for sign-off before build)
